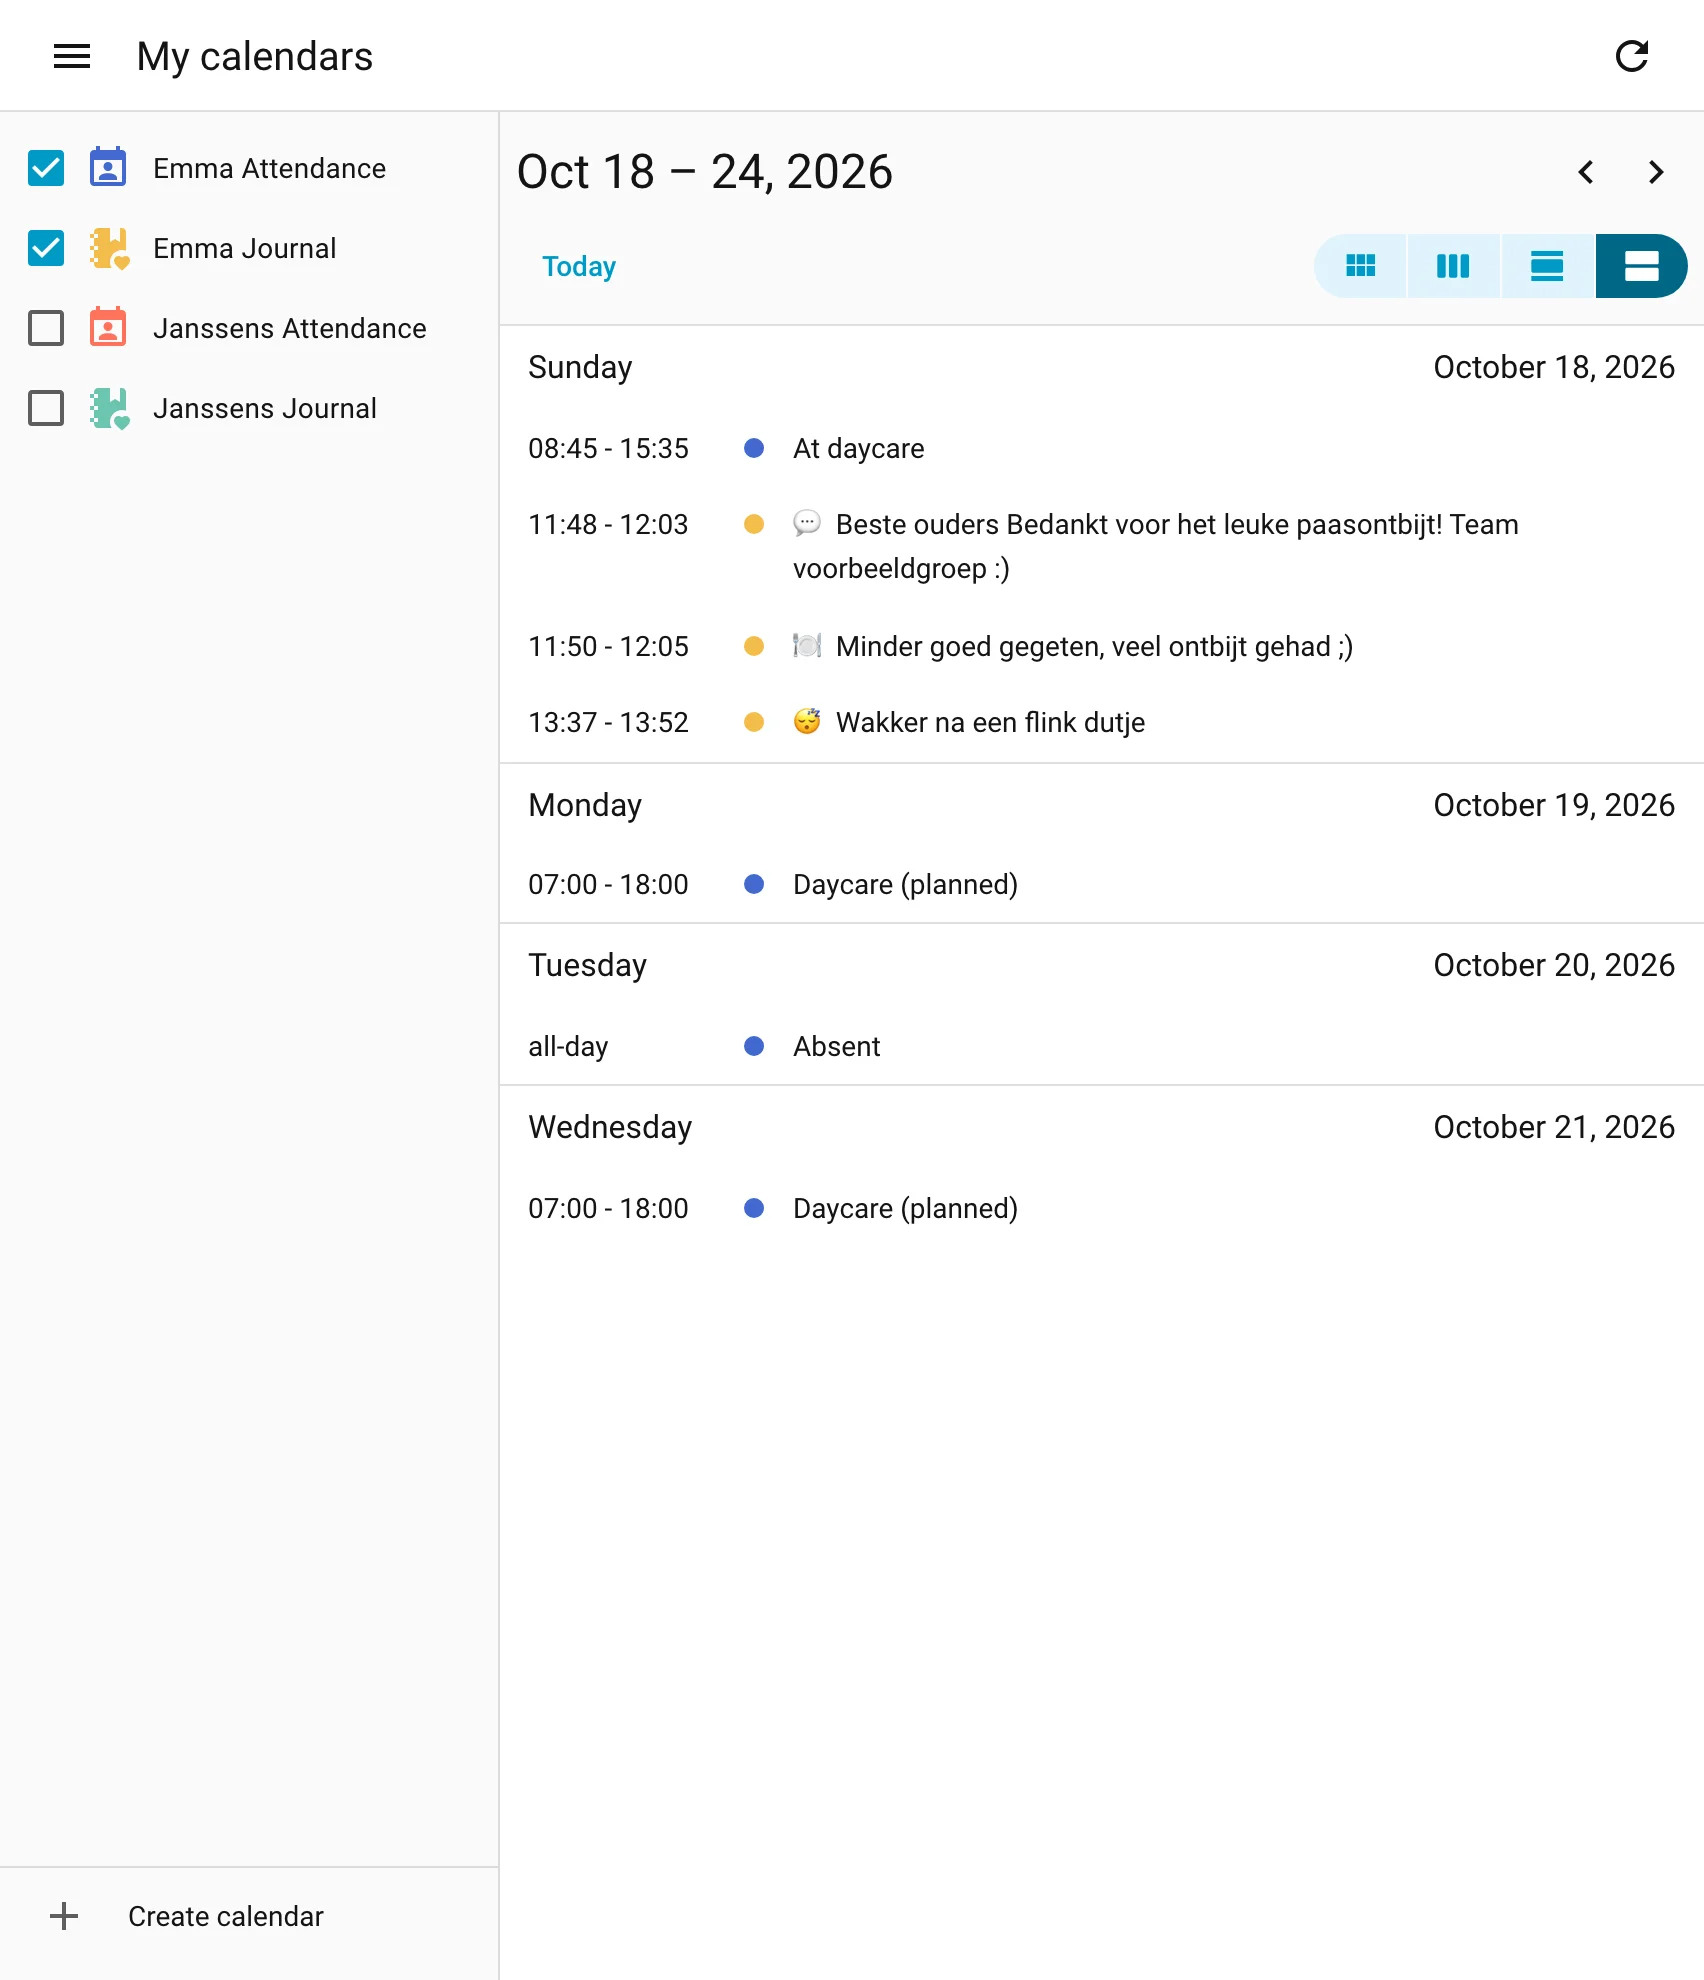
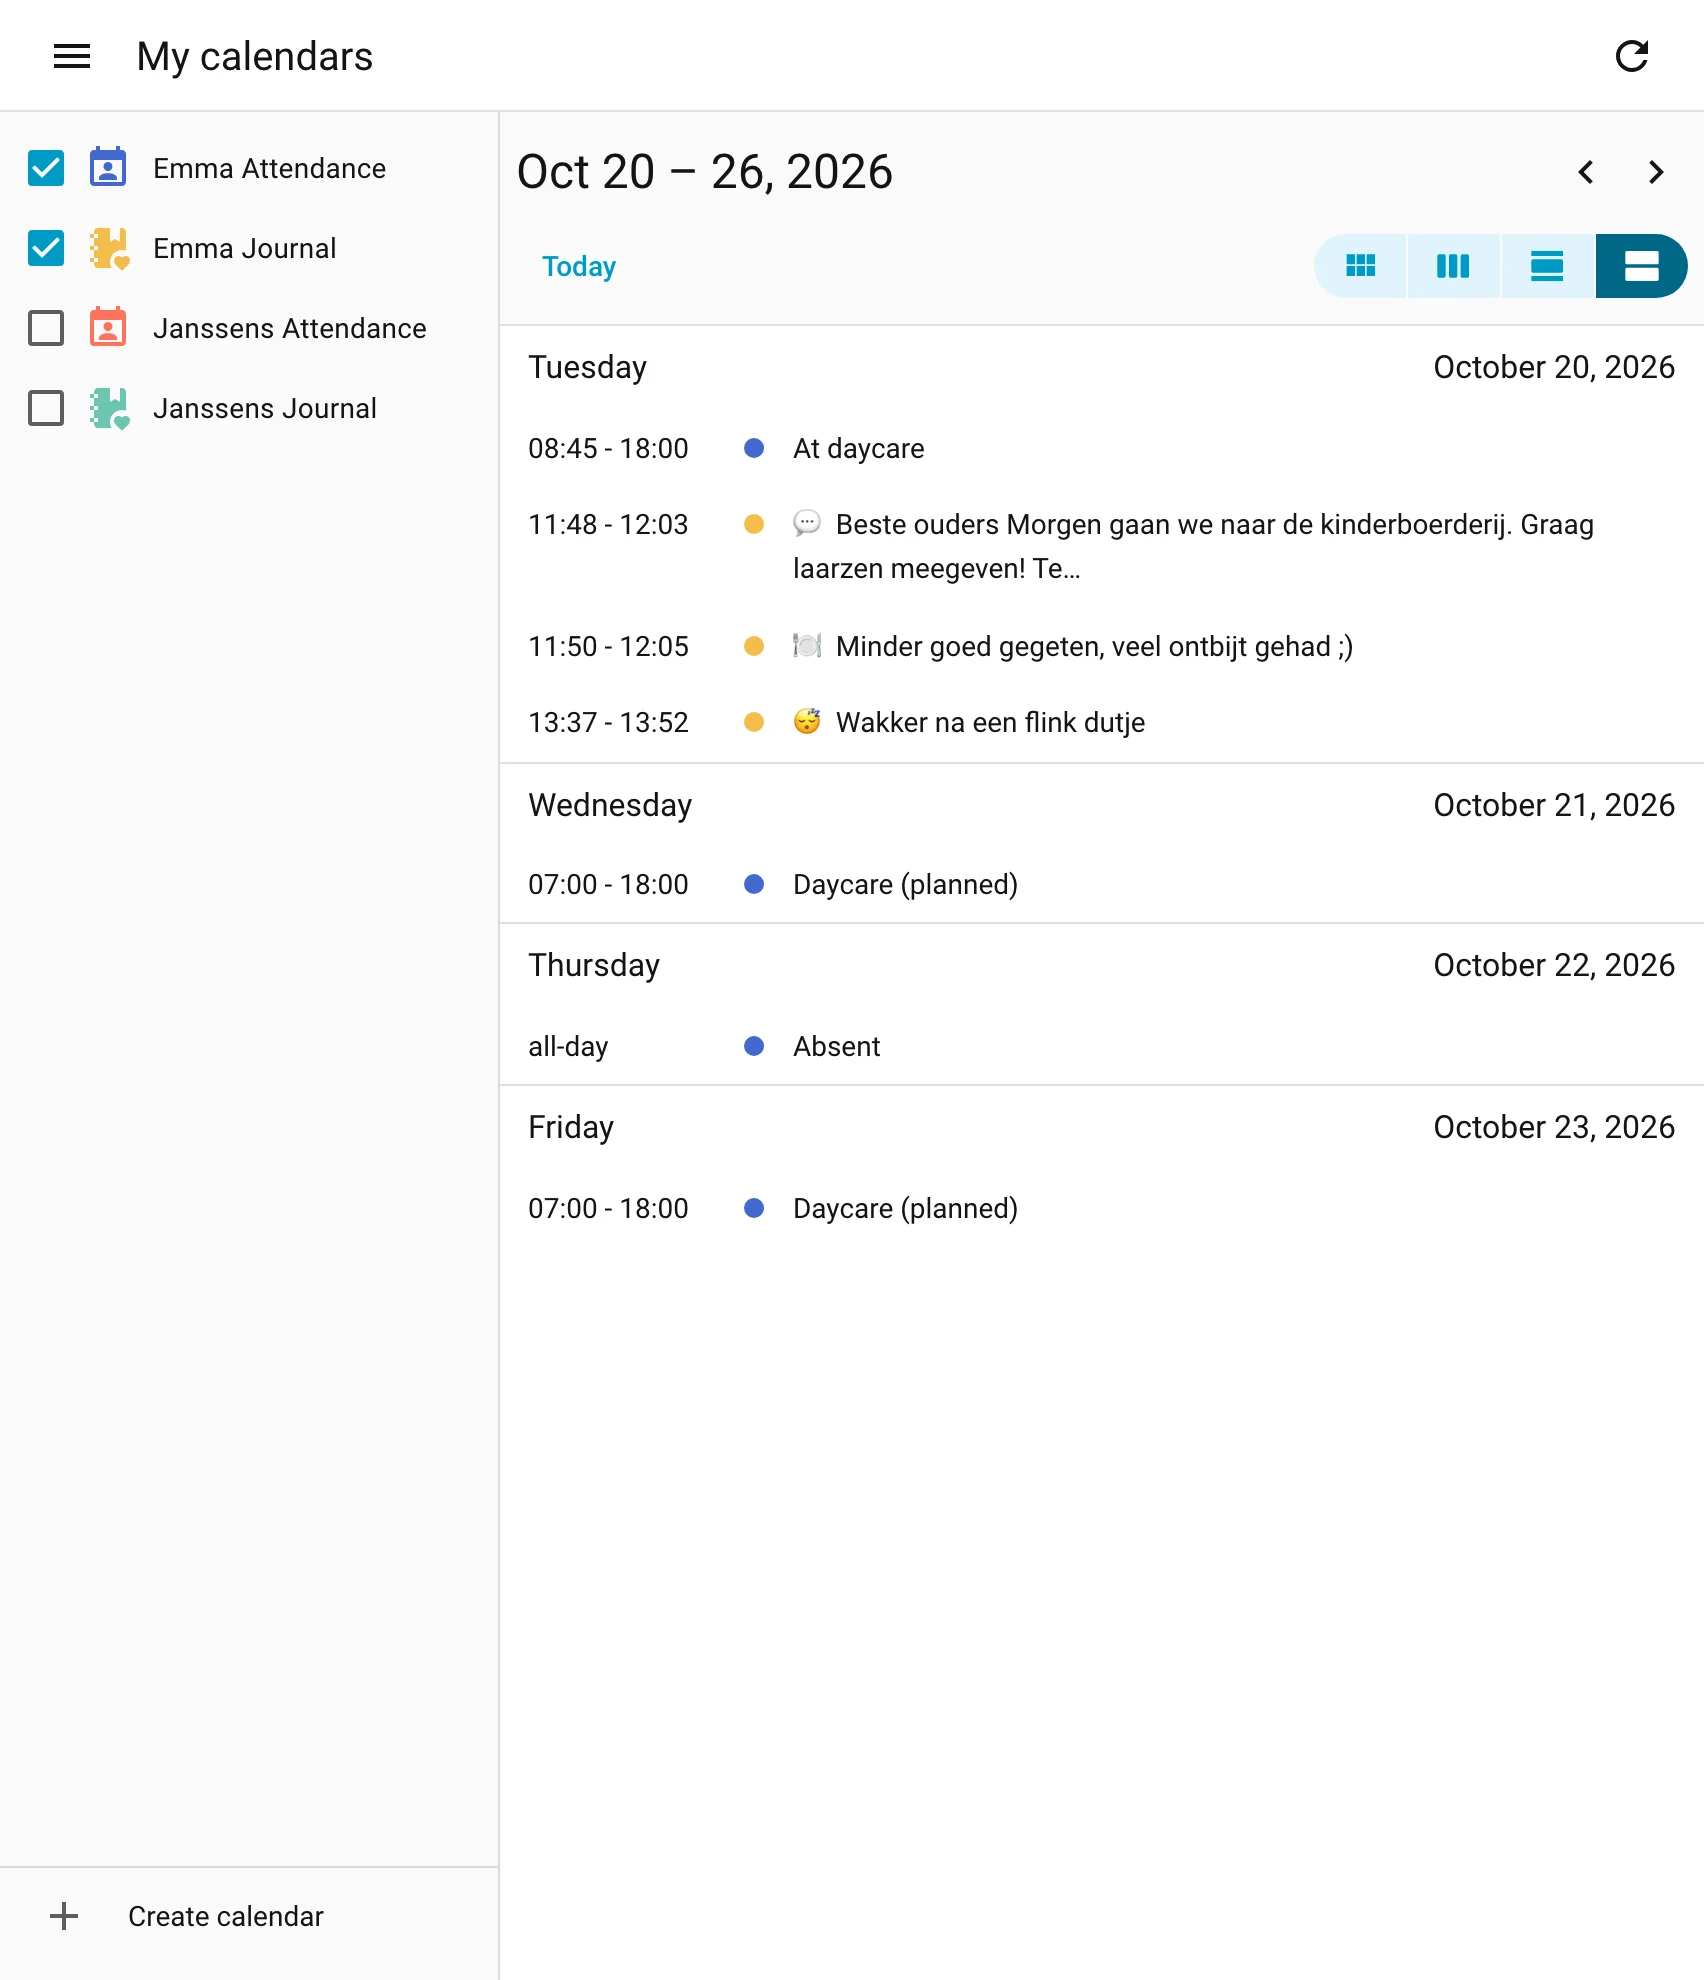
Run the demo at a fixed weekday time
- Fake the demo container's clock with libfaketime (Tuesday 14:00 by
  default, DEMO_TIME to change it).
- Hide check-ins, check-outs and journal entries later than now, so the
  child shows as at daycare.
- Replace the Easter journal message, which doesn't fit other dates.
- Retake the screenshots: weekdays, Monday-first week, child present.

Assisted-by: Claude Code:claude-opus-5-5

diff --git a/demo/toddle_demo/__init__.py b/demo/toddle_demo/__init__.py
@@ -2,6 +2,8 @@
 
 Used by the ``demo`` docker compose profile to take screenshots without real data.
 Any email, password and tenant are accepted when adding the Toddle integration.
+Check-ins, check-outs and journal entries later than now are hidden, like the
+real API would, so the demo follows the (possibly faked) clock through the day.
 """
 
 from __future__ import annotations
@@ -21,6 +23,7 @@ from custom_components.toddle.api import (
     Parent,
     SubscriptionDay,
     ToddleClient,
+    date_from_epoch,
 )
 from custom_components.toddle.const import DOMAIN as TODDLE_DOMAIN
 
@@ -31,6 +34,13 @@ FIXTURE_TODAY = date(2026, 3, 31)
 
 
 _DATA: dict[str, Any] = {}
+# Fixture messages that don't fit any time of year, replaced in the demo.
+_MESSAGES = {
+    "b0000000-0000-4000-8000-000000000002": (
+        "Beste ouders\n\nMorgen gaan we naar de kinderboerderij. "
+        "Graag laarzen meegeven!\n\nTeam voorbeeldgroep :)"
+    ),
+}
 
 
 def _read_fixtures() -> dict[str, Any]:
@@ -47,6 +57,22 @@ def _shift(items: list[dict[str, Any]], keys: tuple[str, ...]) -> list[dict[str,
         item | {key: item[key] + seconds for key in keys if key in item}
         for item in items
     ]
+
+
+def _hide_future(day: dict[str, Any]) -> dict[str, Any]:
+    now = datetime.now(DAYCARE_TZ)
+    if date_from_epoch(day["date"]) != now.date():
+        return day
+    clock = now.strftime("%H:%M")
+    presences = [
+        {"in": "", "out": ""}
+        if slot.get("in", "") > clock
+        else slot | {"out": ""}
+        if slot.get("out", "") > clock
+        else slot
+        for slot in day.get("presences", [])
+    ]
+    return day | {"presences": presences}
 
 
 async def _login(self: ToddleClient) -> None:
@@ -66,7 +92,9 @@ async def _get_subscription_days(
 ) -> list[SubscriptionDay]:
     items = _shift(_load("subscription_days.json")["data"], ("date",))
     days = (
-        SubscriptionDay.from_dict(i) for i in items if i["child"]["uuid"] == child_uuid
+        SubscriptionDay.from_dict(_hide_future(i))
+        for i in items
+        if i["child"]["uuid"] == child_uuid
     )
     return [d for d in days if start <= d.date <= end]
 
@@ -75,13 +103,18 @@ async def _get_journals(
     self: ToddleClient, child_uuid: str, start: date, end: date
 ) -> list[JournalEntry]:
     items = _shift(_load("journals.json")["data"], ("happened_at", "created_at"))
-    entries = (JournalEntry.from_dict(i) for i in items)
+    entries = (
+        JournalEntry.from_dict(i | {"message": _MESSAGES.get(i["uuid"], i["message"])})
+        for i in items
+    )
     # Journal fixtures all belong to the first child.
     first = _load("children.json")["data"][0]["uuid"]
     return [
         e
         for e in entries
-        if child_uuid == first and start <= e.happened_at.date() <= end
+        if child_uuid == first
+        and start <= e.happened_at.date() <= end
+        and e.happened_at <= datetime.now(DAYCARE_TZ)
     ]
 
 

diff --git a/CONTRIBUTING.md b/CONTRIBUTING.md
@@ -36,7 +36,9 @@ To try the UI or take screenshots without a real account, start the demo profile
 docker compose --profile demo up -d demo
 ```
 
-Open http://localhost:8124 and add the Toddle integration with any email, password and tenant. The `toddle_demo` component in `demo/` replaces the API client with the data from `tests/fixtures`, moved so that the fixtures' "today" is the current day.
+Open http://localhost:8124 and add the Toddle integration with any email, password and tenant. The `toddle_demo` component in `demo/` replaces the API client with the data from `tests/fixtures`, moved so that the fixtures' "today" is the current day. Check-ins and journal entries later than the current time are hidden.
+
+The container's clock is faked with libfaketime, starting on a Tuesday afternoon while the child is at daycare. Pick another moment with `DEMO_TIME="2026-10-20 17:00:00" docker compose --profile demo up -d demo`. Your browser still uses the real time, so relative times ("5 hours ago") will be off unless you fake its clock too, as the screenshot script does with Playwright's `page.clock`.
 
 ## Version scheme
 
